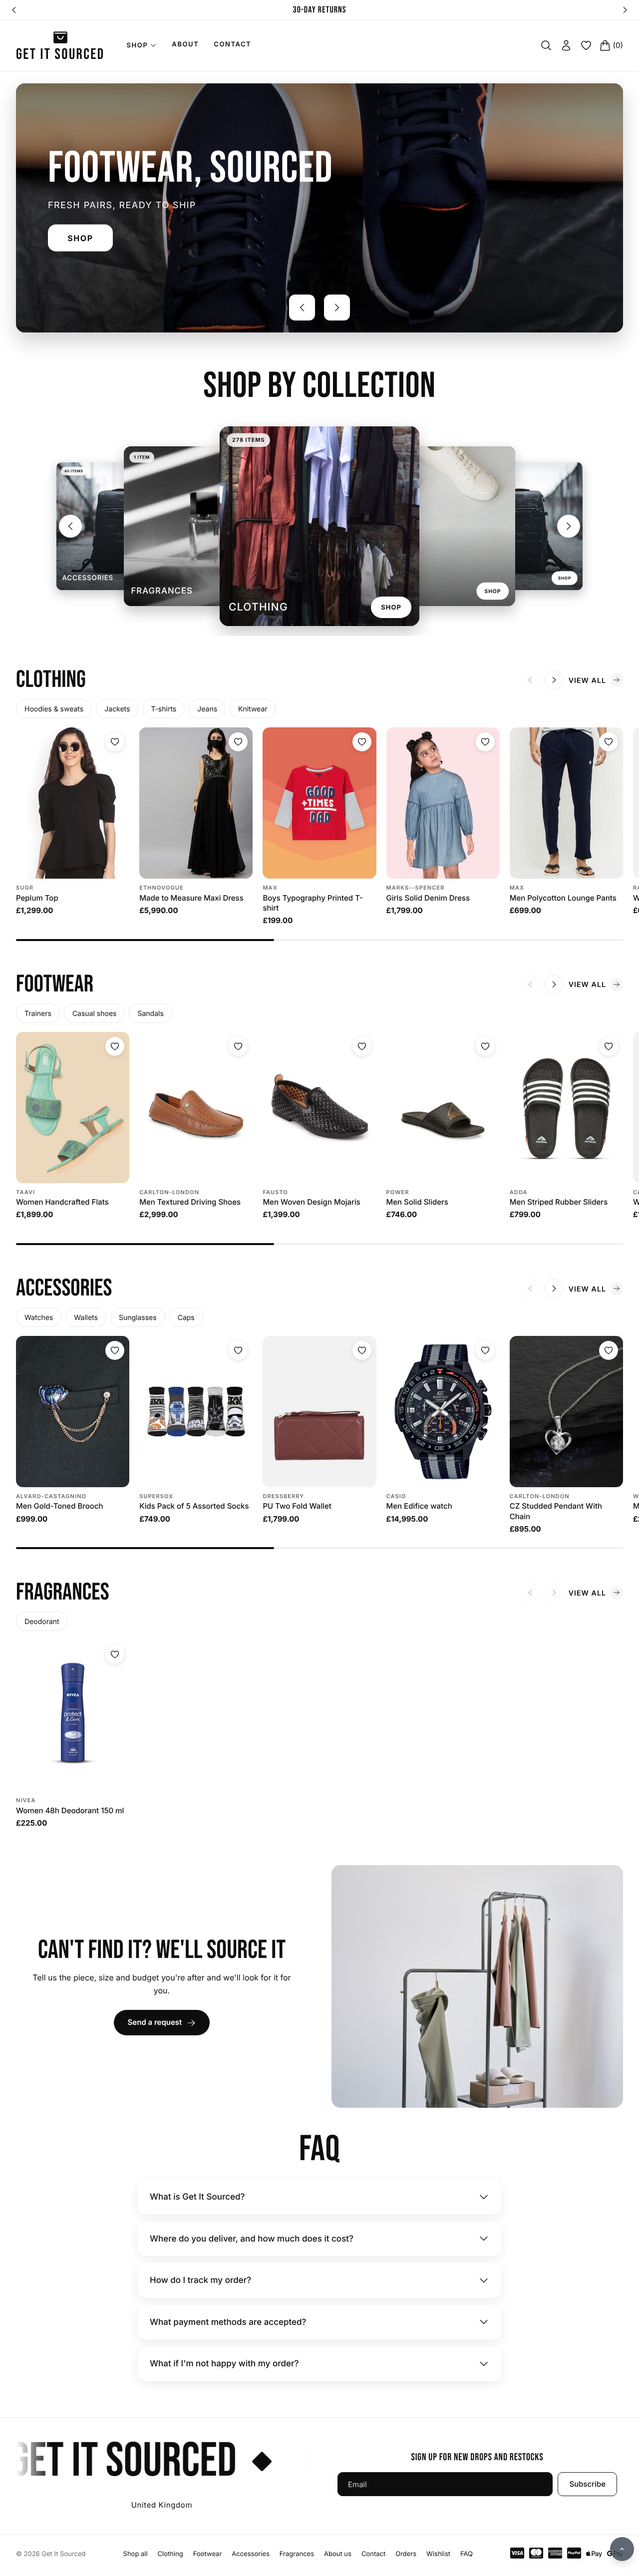
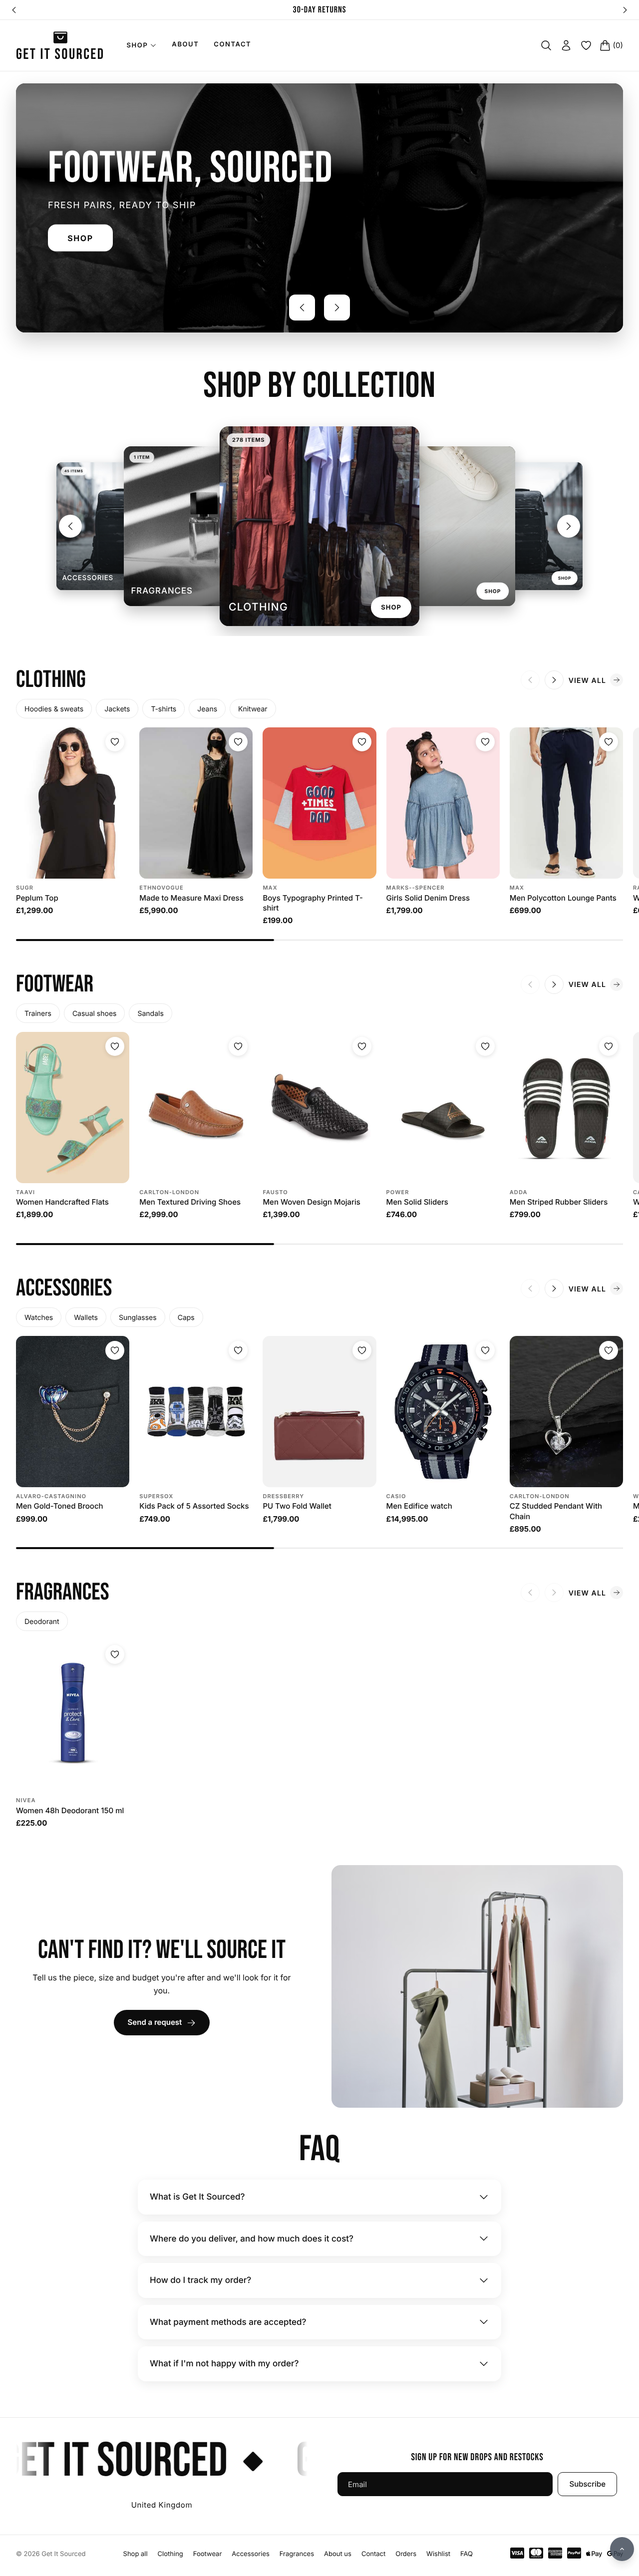
Show the home page slides in black and white
Matches the reference site's monochrome hero and the store's black-and-
white design. Set heroMono: false in storeConfig to show them in colour.

Claude-Session: https://claude.ai/code/session_01MiXNvcNMLDu5eBSVA8g4Bc

diff --git a/scrollme/src/components/home/Hero.jsx b/scrollme/src/components/home/Hero.jsx
@@ -33,6 +33,7 @@ const Slide = styled.div`
     url(${({ $img }) => $img});
   background-size: cover;
   background-position: ${({ $position }) => $position || 'center'};
+  filter: ${({ $mono }) => ($mono ? 'grayscale(1) contrast(1.08)' : 'none')};
 `;
 
 const Content = styled.div`
@@ -134,7 +135,7 @@ const Hero = () => {
         onBlur={() => setPaused(false)}
       >
         {slides.map((s, i) => (
-          <Slide key={s.id} $img={s.img} $position={s.position} $active={i === index} aria-hidden='true' />
+          <Slide key={s.id} $img={s.img} $position={s.position} $mono={storeConfig.heroMono} $active={i === index} aria-hidden='true' />
         ))}
         <Content aria-live='polite'>
           <Title>{slide.title}</Title>

diff --git a/scrollme/src/data.js b/scrollme/src/data.js
@@ -11,6 +11,8 @@ export const storeConfig = {
     { icon: 'delivery', text: 'Free UK delivery over £100' },
     { icon: 'returns', text: '30-day returns' },
   ],
+  // Show the hero photos in black and white, to match the store's monochrome look.
+  heroMono: true,
   // Home page hero. Photos: Pexels licence (free for commercial use), product only (no
   // people) and no visible brand logos.
   heroSlides: [
